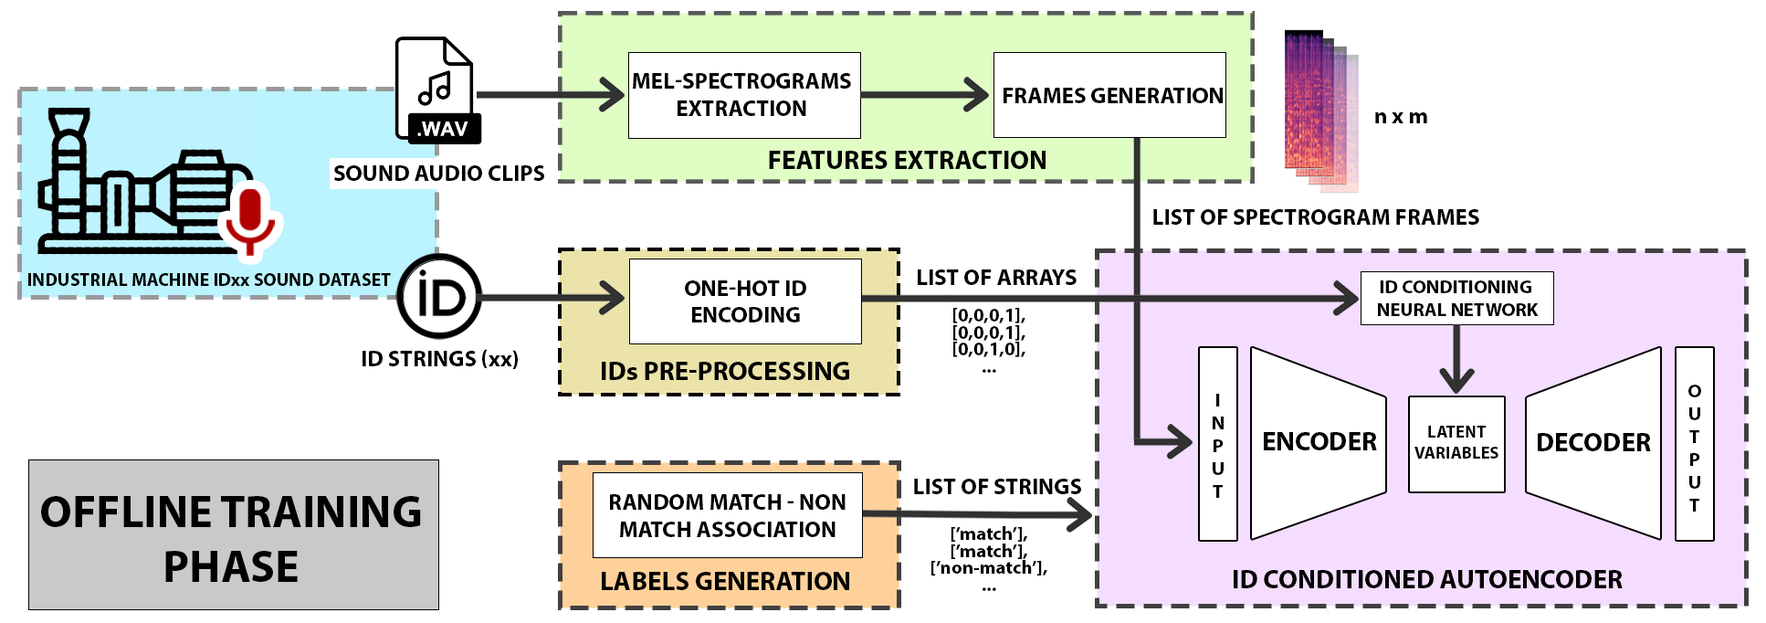
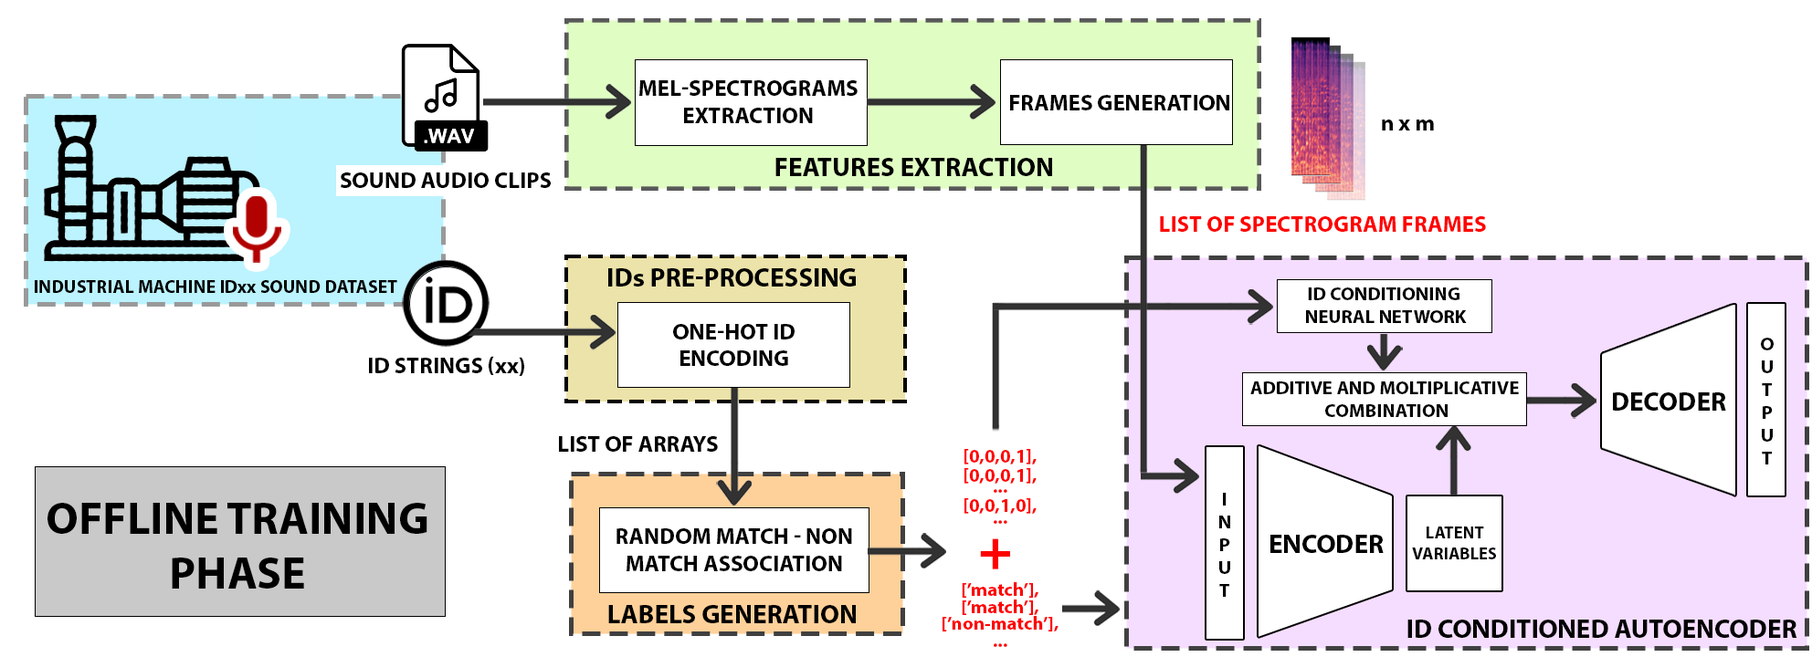
UPDATE 9/04
UPDATE END CHAPTER 3

diff --git a/TESI - DI FIORE/chapter3.tex b/TESI - DI FIORE/chapter3.tex
@@ -1,38 +1,95 @@
 \chapter{Proposed Framework}
-As it has shown, one of the main task of Predictive Maintenance is anomaly detection, described as a set of techniques to identify some anomalous warning states in which an under observation machine could be, allowing a better maintenance activities planning. In this part of the work it is firstly formalized the task performed and then the proposed architecture is illustrated. At the end of the work there is a brief explanation of the technologies used for the implementation of the illustrated framework.
+As it has shown, one of the main task of predictive maintenance is Anomaly Detection, described as a set of techniques for the identification of some anomalous warning states in which an under observation machine could be, allowing a better maintenance activities planning. In this part of the work the task performed is firstly formalized and then the proposed architecture is illustrated. At the end of the chapter there is a brief explanation of the technologies used for the implementation of the illustrated framework.
 \section{Problem definition}
-In this section we formalize the performed anomalous sound detection task. The proposed architecture must learn to classify audio clips placed in input as normal or anomalous. The training set is composed by $K$ audio clips $\{x_1, x_2, ...,x_K\}$ in \textit{.wav} format, recorded from different kinds of a particular machine $X$, with a duration of $T$ seconds. A numerical ID, contained into each clip filename, is used to identify the different kinds of $X$. The goal of this problem is to train a model on all clips that belong to $X$ normal working state and, since only few audio clips are recorded when anomalies are present, they are incorporated into a different set, used for testing the model. For these reasons, this task cannot be solved as a simple classification problem, even though it seems to be a two-class classification problem.\\
-Before describing the proposed model in detail, let’s have a look to the im- plemented framework in high level way (Figure \ref{high-level-architecture}). As it can be seen, the input consists in an audio clip microphones disposed around the monitored machinery, while the output is a label, \textit{normal} or \textit{anomaly}.
+In this section we formalize the performed anomalous sound detection task. The proposed architecture must learn to classify audio clips placed in input as normal or anomalous. The training set is composed by $K$ audio clips $\{x_1, x_2, ...,x_K\}$ in \textit{.wav} format, recorded from different kinds of a machine $M$, with a duration of $T$ seconds. An ID string is used to identify the different kinds of $M$. The main goal of this problem is to train a model on all clips that belong to $M$ normal working state and, since only few audio clips are recorded when anomalies are present, they are incorporated into a different set, used for testing purpose. For the reasons explained in previous chapters, this task cannot be solved as a simple classification problem, even though it seems to be a two-class classification problem.\\
+Before describing the proposed model in detail, let’s have a look to the implemented framework in high level way (Figure \ref{high-level-architecture}). As it can be seen, the input consists in an audio clips recorded by microphones disposed around the monitored machinery, while the output is a label, \textit{normal} or \textit{anomaly}.
 \begin{figure}[ht]
-\includegraphics[scale=0.7]{TESI DI FIORE/img/high-level-architecture.png}
+\includegraphics[scale=0.95]{TESI DI FIORE/img/high-level-architecture.png}
 \centering
 \caption{High level architecture \cite{DCASE}}
 \label{high-level-architecture}
 \end{figure}
 
 \section{Model architecture}
-The proposed ASD system shown in Figures \ref{offline-asd-system} and \ref{online-asd-system} consists of two main phases: an offline training phase responsible of the generation of an autoencoder model and an online operation phase to conduct the ASD in real time. It is good to say immediately that this architecture is valid for every implementation of the autoencoder. In fact, the novelty brought by this work is a generalization of ID embedding idea, shown in Chapter 2 and implemented for DCASE 2020 task 2 Dataset, through the use of different kinds of autoencoders, in terms of how the encoder or the decoder layers are built.\\
+The proposed ASD system shown in Figures \ref{offline-asd-system} and \ref{online-asd-system} consists of two main phases: an offline phase responsible of the training of an autoencoder model and an online operation phase to conduct the ASD in real time. It is good to say immediately that this architecture is valid for every implementation of the autoencoder. In fact, the novelty brought by this work is a generalization of ID embedding idea, shown in Chapter 2 and implemented for DCASE 2020 task 2 Dataset, through the use of different kinds of autoencoders, in terms of how the encoder or the decoder layers are built.\\
 In the next two subsections there are a detailed descriptions of the two phases, with a focus on each block present in the pipelines.
 
 \subsection{Offline Training Phase}
 \begin{figure}[ht]
-\includegraphics[scale=0.45]{TESI DI FIORE/img/offline-architecture.png}
+\includegraphics[scale=0.48]{TESI DI FIORE/img/offline-architecture.png}
 \centering
 \caption{Overview of offline training phase of the proposed ASD system.}
 \label{offline-asd-system}
 \end{figure}
+This part of the overall architecture is the one responsible for the training of the model based on autoencoder. The training process must be done in offline manner with the use of a pre-collected normal audio clips which belong to the machine that is under observation. In addition to the dataset, different other components can be noticed analyzing the Figure \ref{offline-asd-system}: the Features Extraction block, the IDs Pre-Processing block, the Label Generation block and finally the ID conditioned autoencoder. The first three parts prepare the dataset for training process, which it is executed in the last one.
 
+\subsubsection{Dataset Structure}
+In addition to the audio clips, the dataset must provide the ID used to identify the particular kind of the machine, embedding it into clips' filename (with \textit{.wav} extension) or in a separated file (obviously maintaining a one-to-one correspondence with audio files). Definitely, the data should be structured in couples composed by audio clips plus a numerical identifier.
 
+\subsubsection{Offline Features Extraction}
+This part of the architecture is responsible of the transformation of audio clips, an operation that is needed to make them ready for the neural network learning process. There are two different components in this block and they are the Mel-Spectrogram Extractor and the Frame Generator:
+\begin{itemize}
+    \item {\textit{Mel-Spectrogram extractor} receives in input the audio clips and it produces in output the corresponding spectrograms in a log-mel-scale.}
+    \item {\textit{Frame generator} produces in output a segmentation in $n \times m$ overlapping frames of the received log-mel-spectrograms.  }
+\end{itemize}
+A little digression should be made about what these spectrograms are and how they are calculated by the first block. A signal is a variation in a certain quantity over time and for audio, this quantity is air pressure, sampled by microphones with a particular rate (in the order of kHz). The Fast Fourier Transform (FFT) is an algorithm that allows the decomposition of a signal into its individual frequencies and the frequency’s amplitude, converting it from the time domain into the frequency domain (the spectrum). The Short-Time Fourier Transform (STFT) allows the representation of the spectrum of these signals as they vary over time (the spectrogram). As audio signals' frequency content vary over time (non-periodic signals) STFT is applied. In particular, the STFT is a FFT computed on overlapping windowed segments of the signal (Figure \ref{sftf}).\\
+\begin{figure}[ht]
+\includegraphics[scale=0.5]{TESI DI FIORE/img/STFT.png}
+\centering
+\caption{Overview of the STFT process.}
+\label{sftf}
+\end{figure}
+Spectrograms usually presents on the x-axis the time, on the y-axis the frequencies and the amplitude is indicated by colors. Log-mel-spectrograms are spectrograms in which the frequencies on y-axis are represented using the Mel-Scale (seen in the previous chapter) and the amplitudes are expressed in Decibel (dB). The most important parameters involved into this transformation process are the length of the window used for STFT ($n\_fft$), the length of the overlap between two successive windows ($hop\_length$) and the number of bins used for the transformation into the Mel scale ($n$).
+In the Figure \ref{features-extraction} a complete graphical view of what this block does is illustrated.
+\begin{figure}[ht]
+\includegraphics[scale=1]{TESI DI FIORE/img/FeatureExtraction.png}
+\centering
+\caption{Features extraction block}
+\label{features-extraction}
+\end{figure}
+In the offline phase, $n \times m$ frames are generated from all $n \times q$ spectrograms of the training set, in order to build a new, pre-processed dataset ready for training process.
+\subsubsection{IDs Pre-Processing}
+This block receives in input a string (the machine ID), associated to each audio clip and converts it to a binary sequence, whose length depends by the number of different kinds of $M$. This is done by the One-Hot Encoder. One-hot encoding is a technique used to convert some categorical or nominal features in order to make them compatible to training algorithm. Here ID strings are converted. Let's take an example. Suppose that there is a machine $M$ and suppose that there are four type of $M$, identified as $ID00$, $ID01$, $ID02$, $ID03$. The one-hot encoder converts $ID00$ to $[0,0,0,1]$, $01$ to $[0,0,1,0]$, $02$ to $[0,1,0,0]$ and $03$ to $[1,0,0,0]$. This operation arranges the IDs to be the input of the ID Conditioning Neural Network, better explained in the next sections. In conclusion, because of each audio file spectrogram is segmented in frames, this block must ensure that each frame of the same spectrogram are associated to the same binary sequence.
 
-\subsection{Online Training Phase}
+\subsubsection{ID Conditioned Autoencoder}
+This part of the architecture is obviously the most important one. It receives in input two lists: the list of spectrogram frames and a list of one-hot-encoded ID arrays. The list of strings from Label Generation is used for the loss calculation during the training process, so that it is not a real input of the neural network. In this block there are two main components: the autoencoder, composed by an encoder and a decoder, which receives the spectrogram frames in input and the ID Conditioning Neural Network, which receives ID arrays. Following there is a mathematical representation these components \cite{18IDConditionedAutoEncoder}:
+\begin{itemize}
+    \item {Encoder $E: \mathcal{X} \rightarrow \mathcal{Z}$ which maps the input $X$ into its encoded version $Z = E(X)$;}
+    \item {Decoder $D:  \mathcal{Z} \rightarrow \mathcal{X}$ which takes the code from $\mathcal{Z}$ and outputs an reconstruction of $X$; }
+    \item {Conditioning made by two functions $H_\gamma$ and $H_\beta: \mathcal{Y} \rightarrow \mathcal{Z}$, taking in input the one-hot encoded ID $l$ from $\mathcal{Y}$ in order to map it into $H_\gamma(l)$ and $H_\beta(l)$, with the same size as code from $\mathcal{Z}$.}
+\end{itemize}
+The encoder and the decoder can be created with different type of layers, like convolutional, LSTM or fully-connected layers. The layer in between the encoder and the decoder is a latent or encoded representation of the input $X$, or else $Z$. Differently from conventional autoencoders, in this architecture decoder's input is not latent representation just mentioned, but its mathematical combination with the output of conditioning functions: $H(Z,l) = H_\gamma(l) \cdot Z + H_\beta(l)$. The conditioning functions can be realized, for example, using dense layers and activation functions. In conclusion the output of the entire autoencoder is $D(H(E(X),l))$.
+
+\subsubsection{Label Generation}
+The goal of ID embedding is to inform the model about the presence of different kinds of machine $M$, helping it to recognize their different normal behaviours. In general, anomalous sound of a machine $M$ with ID $x$ could be similar to normal sound of machine $M$ with ID $y$ and this could generate some false negative (FN), because the autoencoder is unable, in this case, to distinguish this anomalous behaviours from normal one on which it has been trained on. The key concept is that, the autoencoder must be trained to reconstruct normal audio spectrograms in input only if the ID provided is correct. With this assumptions, after the training, if a normal test sample is placed in input a low reconstruction error (in terms of mean absolute error or mean squared error) is expected, while if there is an anomalous one, an high  reconstruction error is generated, even if this anomalous behavior is similar to a normal behaviour of another machine, because the similarity problem is resolved by the presence of the ID. At this point a question arises: the only ID conditioning is it sufficient for this task? The answer is no and for this reason there is the Label Generation block. This block randomly changes with a probability $1-\alpha$ the correct ID sequence associated to an audio clip to another one available and it adds, for each frame associated to the same audio clip, the string \textit{match} or \textit{not-match} on the basis of the decisions. For example if there are 100 audio clips and $\alpha$ is 0.75, 75 audio clips will be associated to the correct ID sequence, the remaining 25 will be associated to a random one, from those available (so that the frame belonging to the same spectrogram have the same ID binary sequence and the same string). Moreover, in order obtain what it is just described, a new loss must be tuned because the classical difference between the input and the output of the decoder is not enough. In fact, to allow the autoencoder to reconstruct well the input only when the ID is correct, during the training, if the label is \textit{match} the loss function must be calculated in classical way as $||D(H(E(X),l)) - X||$
+while if the label is \textit{not-match} the loss function must be calculated using an arbitrary value C: $||D(H(E(X),l)) - C||$.
+In conclusion, when the input spectrogram frames are associated to wrong IDs, the autoencoder will try to reconstruct C (and so high reconstruction error) .
+
+\subsection{Online Operation Phase}
 \begin{figure}[ht]
 \includegraphics[scale=0.45]{TESI DI FIORE/img/online-architecture.png}
 \centering
 \caption{Overview of online operating phase of the proposed ASD system.}
 \label{online-asd-system}
 \end{figure}
+The architecture used for online operation phase is very similar to the part just described, but there are some little variations. The first thing that must be noticed is that this part of the architecture is meant for an effective and an operative use on field, since the left part of the Figure \ref{online-asd-system} shows that there is not a dataset but the real time raw audio stream from microphones. As other elements have been already explored in previous sections, following  there is a description of Feature Extraction block and the Anomalous Sound Detection block. 
+
+\subsubsection{Online Feature Extraction}
+It is very similar to the one presented before, with exception of the sliding window component. Because of real-time anomaly detection, there are not audio files, but there is a continuous audio stream. The autoencoder model is implemented and trained to work with $T$ seconds audio clips. For this reason the sliding window component takes in input the stream and samples the last $T$ seconds from it, every $h$ seconds. Next, the audio clip obtained passes into mel-spectrogram extractor and into the frame generator, already seen before. 
+
+\subsubsection{Anomalous Sound Detection}
+This is the final block of the online architecture and the one that is responsible of the sound labeling as normal or anomalous. In this part three components are highlighted: the pre-trained autoencoder, the reconstruction error calculator and a threshold. The pre-trained autoencoder is the result of the operations made by the online part of the architecture. The reconstruction error calculator takes in input the output of the autoencoder and its input in order to evaluate the difference between these two (as the loss calculation during the training phase). The threshold is used to establish if the reconstruction error is high enough to classify clips as anomalous. This threshold must be decided using reconstruction error of training samples.
+
 
 \section{Hyperparameters}
+In order to give a better idea related to the hyperparameters of the proposed model, following there is a summary of the most important one:
+\begin{itemize}
+    \item {\textit{C}: the constant vector that must be reconstructed by the autoencoder when the provided ID is wrong;}
+    \item {$\alpha$: the percentage of correct frame-ID couples in training set;}
+    \item {\textit{NUM\_CONDITIONING\_LAYERS}: number of layers of the conditioning neural network;}
+    \item {\textit{NUM\_CONDITIONING\_NEURONS}: number of neurons used in the the conditioning layers of the neural network and also the dimension of the encoded input generated by the encoder.}
+\end{itemize}
+Clearly, because of the architecture is compatible with different kinds of autoencoder layers, other hyperparameters that should be taken in consideration are whose that arise from them. Moreover, there are other hyperparameters, such as learning rate, batch size and number of epochs, which are not dependent on the proposed architecture but affect the training stage of the model.
 
 \section{Implementation technologies}
 In this section, some implementation details about the proposed model are given. The model was implemented in Python 3. Used technologies and libraries are:
@@ -41,6 +98,7 @@ In this section, some implementation details about the proposed model are given.
     \item {Tensorflow: it is an end-to-end open source platform for Machine Learning;}
     \item {Keras: it is an open source Deep Learning API written in Python3;}
     \item {NumPy, used to work in an efficient way with arrays;}
-    \item {SciKit-Learn, a machine learning library, containing simple and efficient tools for predictive data analysis}
+    \item {SciKit-Learn, a machine learning library, containing simple and efficient tools for predictive data analysis;}
+    \item {Librosa, a Python library for audio and music processing.}
 \end{itemize}
 

diff --git a/TESI - DI FIORE/chapter2.tex b/TESI - DI FIORE/chapter2.tex
@@ -43,7 +43,7 @@ Ruei-Jie Hsieh et al \cite{9UnsupervisedOnlineAnomalyDetectionMultivariate} deve
 \end{figure}\\
 Another strategy to resolve the anomaly detection task is to combine deep learning and ensemble learning. Shao Haidong et al. \cite{14NovelMethodEnsembleDeepAutoencoder} propose a novel method called ensemble deep autoencoders (EDAEs) for the intelligent fault diagnosis of bearings, using CWRU dataset. The ensemble of multiple deep autoencoders is a good choice to overcome the low generalization ability of individual deep autoencoders. Diversification is obtained by designing deep autoencoders with different kind of activation functions, considering that neural networks differing in activation functions usually show different characteristics and complementary learning behaviours. As combination strategy, the authors define a new one. For each deep autoencoder the classification accuracy is calculated and then compared to a pre-defined threshold. Only autoencoders with accuracy greater than the threshold are kept. Next, different weights are calculated and then assigned to each model using its accuracy and at the end, the achitecture reports the combined diagnosis result of each sample based on the weight scores. In order to maintain the stability of the combined diagnosis results, repeated trials are carried out. The results (in terms of precision, recall and F-Measure) demonstrate the validity of this architecture.
 \subsection{Anomalous Sound Detection (ASD)}
-The existing anomaly detection systems used in the industrial domain depend, obviously, on the properties of sensors used to monitor an industrial machine. Among those systems, most common are visual anomaly detection systems, which have some drawbacks such as illumination, occlusion by objects, being out of the field of view and so forth, which strongly affect the performance of the system, especially in terms of computation power needed to achieve high real time performance. ASD systems, however, are not affected by the problems just described. The use of acoustic data features also offers an advantage in terms of simplicity in data retrieval. On the other hand, compared to images, audio clips need some pre-processing steps to be converted in different formats compatible with neural network training process, like signals composed by air pressure values or spectrograms, often in the Mel scale\footnote{Mel spectrograms derive from a particular cepstral representation of the audio signal. The difference between the cepstral and the mel-frequency cepstral representation is that, in the MFC one, the frequency bands are equally spaced on the Mel scale, which approximates the human auditory system’s response more closely than the linearly-spaced frequency bands used in the normal cepstral transformation.}.\\
+The existing anomaly detection systems used in the industrial domain depend, obviously, on the properties of sensors used to monitor an industrial machine. Among those systems, most common are visual anomaly detection systems, which have some drawbacks such as illumination, occlusion by objects, being out of the field of view and so forth, which strongly affect the performance of the system, especially in terms of computation power needed to achieve high real time performance. ASD systems, however, are not affected by the problems just described. The use of acoustic data features also offers an advantage in terms of simplicity in data retrieval. On the other hand, compared to images, audio clips need some pre-processing steps to be converted in different formats compatible with neural network training process, like signals composed by air pressure values or spectrograms, often in the Mel scale\footnote{In Mel-Scale the entire frequency spectrum is separated into $x$ evenly spaced frequencies (bins), where 'evenly spaced' means that the distance on the frequency dimension approximates the human auditory system’s response more closely than the linearly-spaced frequency bands used normally in spectrograms}.\\
 In this context, the authors of \cite{13RealTimeDetectionUsingSequentialAutoencoder} compare the performances of convolutional LSTM autoencoder (Conv-LSTMAE)  and sequential convolutional autoencoder (CAE) using sounds retrieved from Youtube videos recorded during industrial manufacturing processes. Because it is hard to capture abnormal patterns due to their rarity in real life and because the creation of anomaly events and recording respective sounds is expensive, the authors generate artificially anomalous samples for testing adding anomaly events like explosion, fire or glass breaking to downloaded clips. Although the proposed two autoencoders are different in terms of layers, the pipeline of the system is fixed: there are sequences of five 128x128 spectrograms (extracted from audio dataset) that are the inputs of a sequential autoencoder, which generate output sequences that must be as much as similar to the input ones. Also this time, the decision about the generation of an alert due to the possible presence of anomalies, is made on the comparison between the reconstruction error of each spectrogram to a pre-defined threshold (Figure \ref{seq2seq-architecture-realtime}).
 
 \begin{figure}[ht]
@@ -54,7 +54,7 @@ In this context, the authors of \cite{13RealTimeDetectionUsingSequentialAutoenco
 \end{figure}
 
 \subsection{DCASE Challenge: an ASD task}
-Detection and Classification of Acoustic Scenes and Events, is a community that organizes challenges every year and usually their task 2 regards predictive maintenance with audio clips as dataset. The dataset presented in the Table \ref{datasets-table} is provided by DCASE 2020 Challenge, whose title is "\textit{unsupervised detection of anomalous sounds for machine condition monitoring}". Because of only normal working machines sound samples are provided as training data (in form of clips, lasting 10 or 11 seconds), the task is already arranged to be resolved in unsupervised way, and, again, autoencoder is one of the best techniques. In details, the dataset that can be downloaded is composed by ToyADMOS Dataset and MIMII Dataset \cite{DCASE} and refers to different sounds recorded with microphones disposed around different machine types: a toy-car, a toy-Conveyor, a valve, a pump, a fan and a slide rail. To make the challenge more interesting, for each machine type different kinds of machines are considered, identified by a numeric ID (for example different kinds of pump). A baseline system implementation for comparison purpose was made available by the authors of the challenge. It consists of a dense autoencoder with three layers, in both the encoder and decoder components, with 128 units, and a latent space with 8 units, all with the ReLU activation function. Following, a summary of most interesting approaches for the improvement of the baseline system is shown, while, in the next chapters, the dataset is explored more in details to support a better explaination of the experimental part of this work.\\
+Detection and Classification of Acoustic Scenes and Events, is a community that organizes challenges every year and usually their task 2 regards predictive maintenance with audio clips as dataset. The dataset presented in the Table \ref{datasets-table} is provided by DCASE 2020 Challenge, whose title is "\textit{unsupervised detection of anomalous sounds for machine condition monitoring}". Because of only normal working machines sound samples are provided as training data (in form of clips, lasting 10 or 11 seconds), the task is already arranged to be resolved in unsupervised way, and, again, autoencoder is one of the best techniques. In details, the dataset that can be downloaded is composed by ToyADMOS Dataset and MIMII Dataset \cite{DCASE} and refers to different sounds recorded with microphones disposed around different machine types: a toy-car, a toy-Conveyor, a valve, a pump, a fan and a slide rail. To make the challenge more interesting, for each machine type different kinds of machines are considered, identified by an ID string (for example different kinds of pump). A baseline system implementation for comparison purpose was made available by the authors of the challenge. It consists of a dense autoencoder with three layers, in both the encoder and decoder components, with 128 units, and a latent space with 8 units, all with the ReLU activation function. Following, a summary of most interesting approaches for the improvement of the baseline system is shown, while, in the next chapters, the dataset is explored more in details to support a better explaination of the experimental part of this work.\\
 % LITERATURE
 Pilastri et al. \cite{15DeepDenseConvAE} propose two deep learning models, based on a dense and convolutional architectures fed with Mel spectrograms. For the dense one, the encoder and decoder networsks consist of four fully-connected layers, followed by Batch Normalization and ReLU as the activation function. For the convolutional one, the encoder and decoder networks are composed by convolutional layers with Batch Normalization and the ReLU activation function after each convolution. In both architectures the goal is to minimize the reconstruction error between inputs and outputs. Regarding features extraction, for the dense autoencoder, audio samples are buffered in fixed-length 1 second intervals with a 50\% overlap and, after the extraction of Mel spectrograms 128x640 dimensional input matrix are obtained. In the convolutional autoencoder system, the Mel spectrograms obtained from samples are segmented to form 128x32 frames, ready for training. As for previous described architectures, the classification of audio clips, is made comparing the reconstruction error (in terms of mse) and a pre-defined threshold. Results show that for two machine types (slider and valve), the best results were achieved by the convolutional autoencoder, while the dense autoencoder provided the best results for the others.\\
 Again, also in anomalous sound detection task, some LSTM-based autoencoders architecture can be found in literature. For example, in the technical report provided by Jalali et al. \cite{16LSTMDeepAutoencodersForASDtask}, the architecture encodes the information using LSTM layers with \textit{n} units and then their outputs are passed into a bottleneck layer, which is also a LSTM layer with smaller size together with a repeat vector layer. A repeat vector layer repeats its input vector multiple times (the number of time steps chosen for the sequences). Next, a stack of sequential LSTM layers reconstruct the original input.\\

diff --git a/TESI - DI FIORE/0_frontespizio.tex b/TESI - DI FIORE/0_frontespizio.tex
@@ -11,7 +11,7 @@
 
 \vfill
 
-{\large Tesi di Laurea Magistrale in Big Data Analytics and Business Intelligence}
+{\large Tesi di Laurea Magistrale in Sistemi Informativi}
 \\[1cm]
 {\textbf{\textit{\LARGE Predictive Mantainance via Anomaly Detection: an approach based on condtional autoencoders}}}
 \\[1cm]
